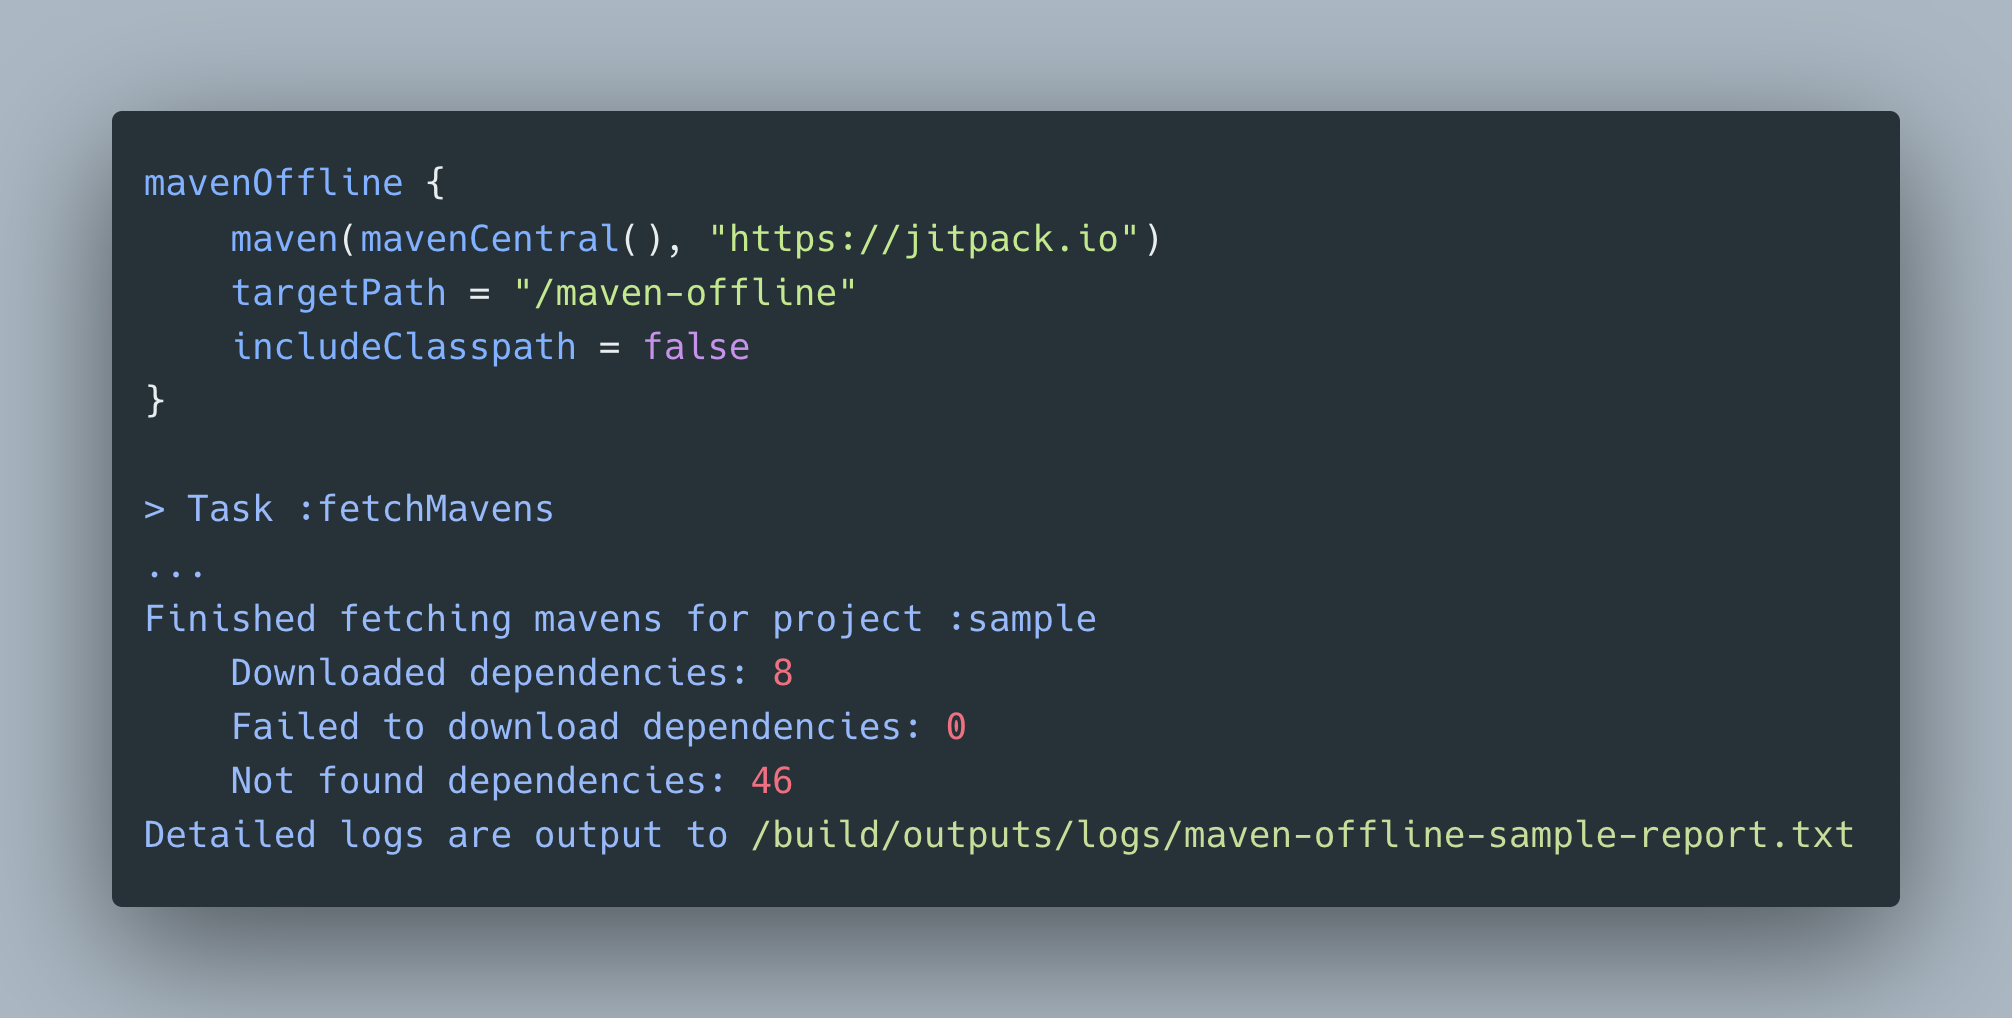
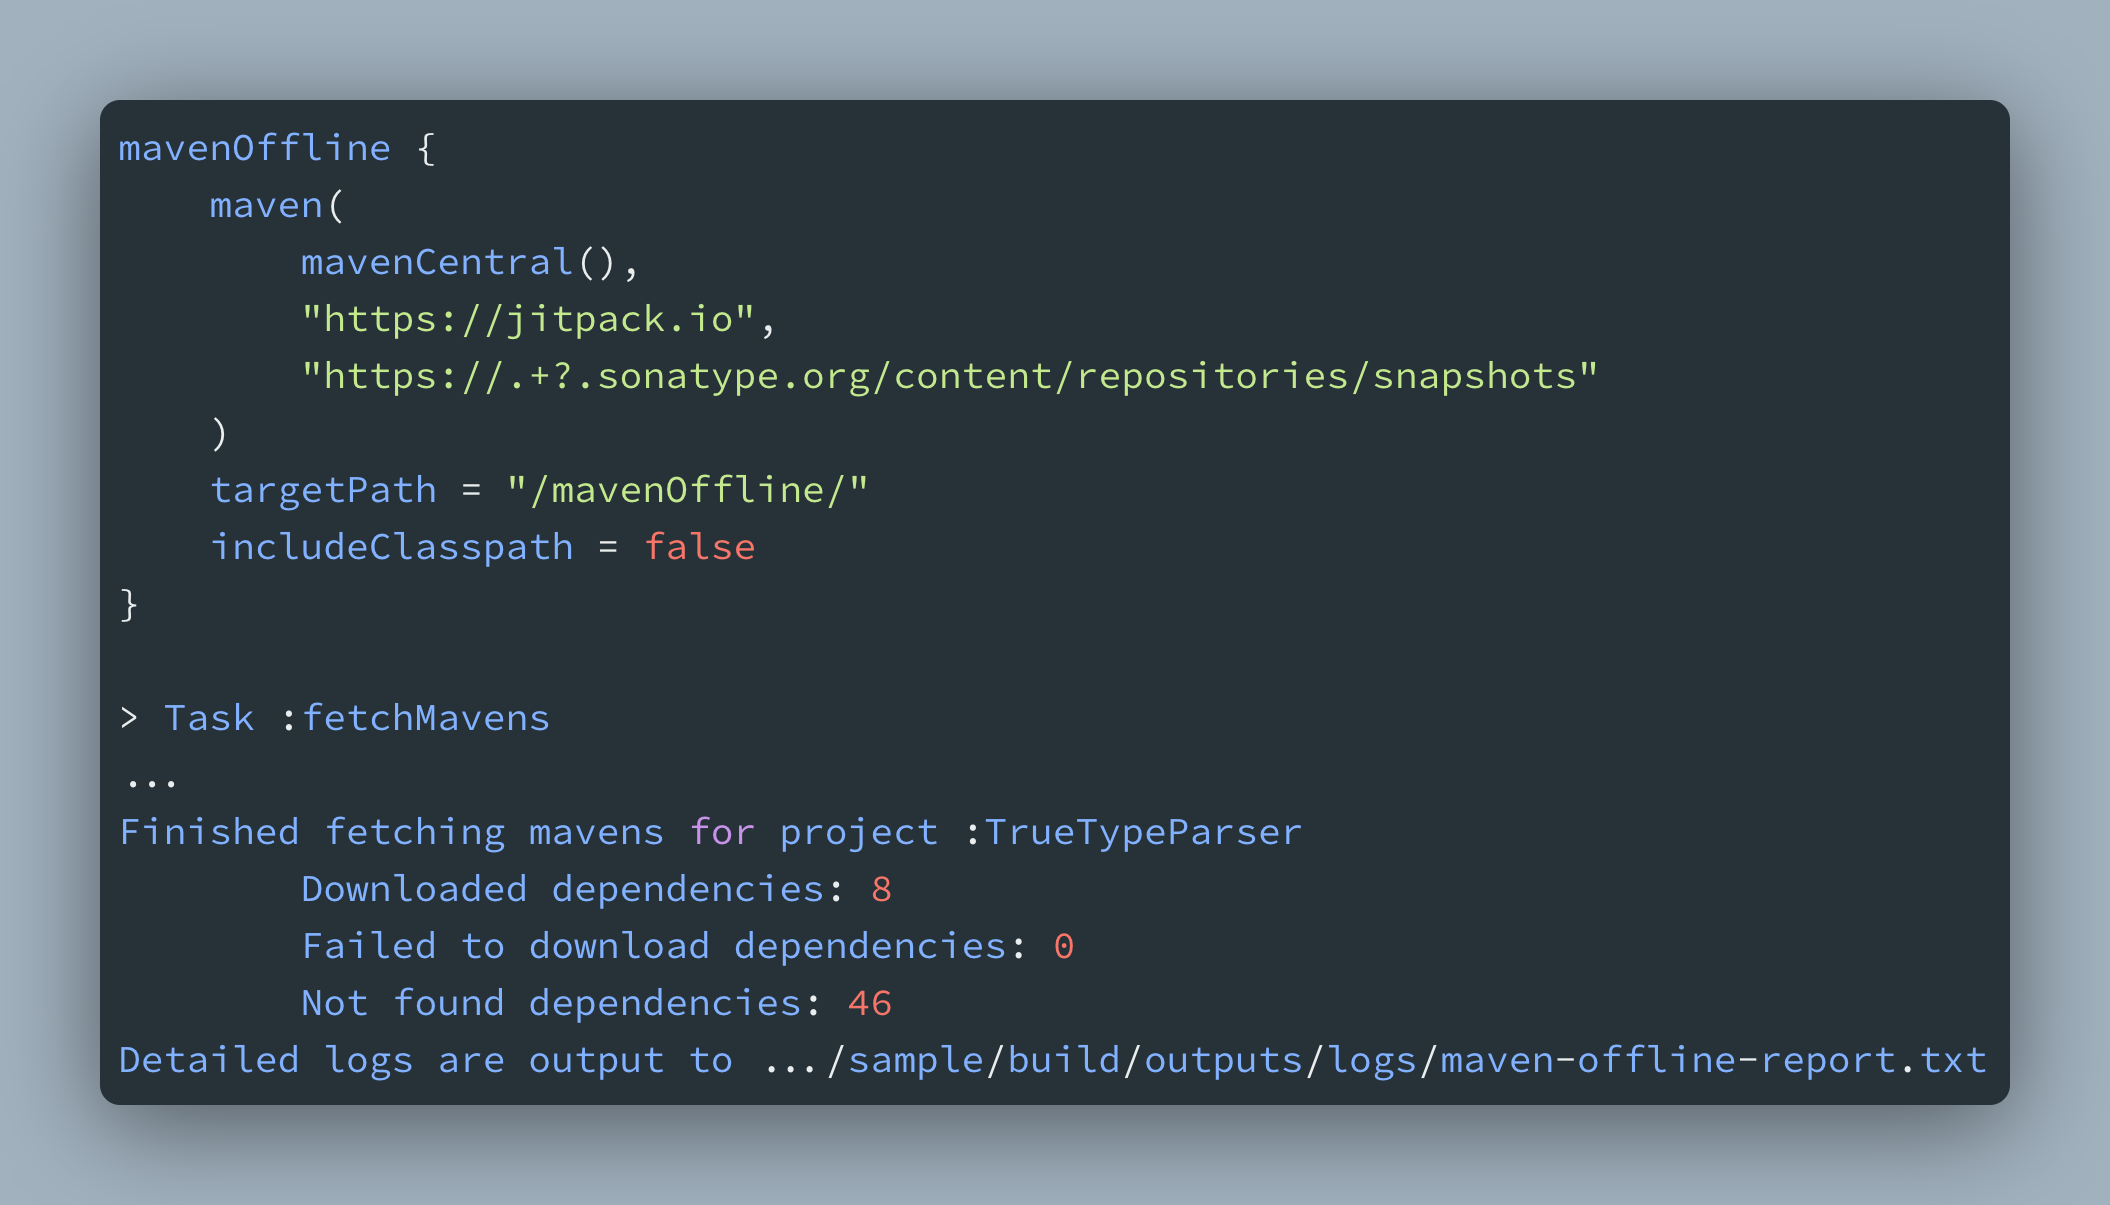
Updated the title image and the configuration block in README.md.

diff --git a/README.md b/README.md
@@ -110,6 +110,10 @@ mavenOffline {
         jcenter(),
         // Add your custom repository URLs here
         "https://jitpack.io"
+        // Support regex patterns since v1.0.3
+        "https://.+?.sonatype.org/content/repositories/snapshots"
+        // Also support zero-length assertion regex
+        "https://((?!s01).).+?.sonatype.org/content/repositories/snapshots"
     )
 
     // Target path to store the fetched repositories
